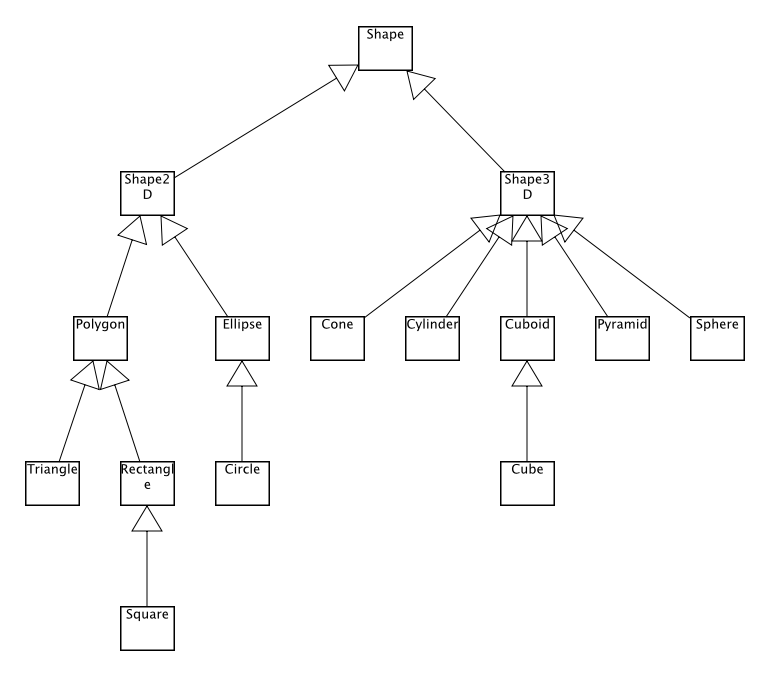
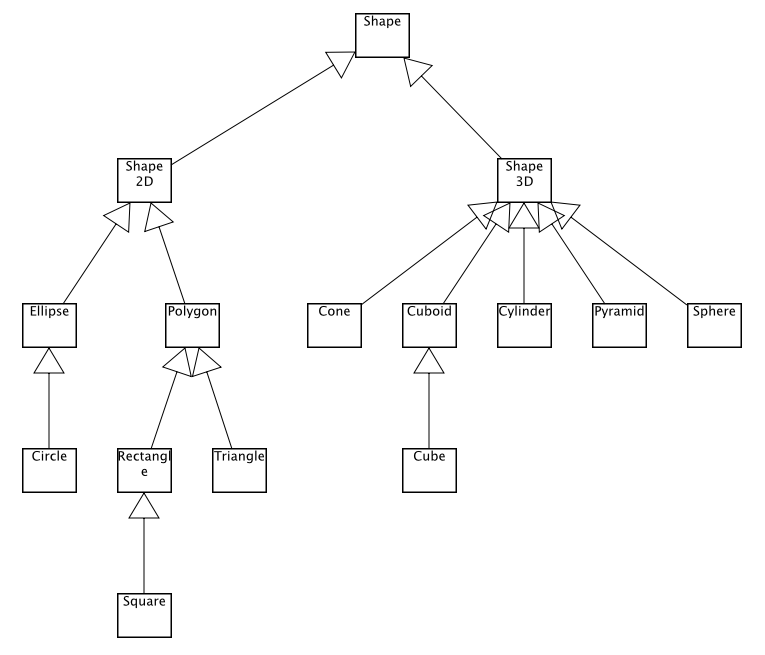
Little update in the 4th exercise for the user study

diff --git a/user-study-exercises/user-study-exercises.tex b/user-study-exercises/user-study-exercises.tex
@@ -81,4 +81,6 @@ Zu den zweidimensionalen Objekten gehören Ellipse (Klasse \texttt{\textbf{Ellip
 
 Zu den dreidimensionalen Objekten gehören Kugel (Klasse \texttt{\textbf{Sphere}}), Pyramide (Klasse \texttt{\textbf{Pyramid}}), Quader (Klasse \texttt{\textbf{Cuboid}}), Zylinder (Klasse \texttt{\textbf{Cylinder}}) und Kegel (Klasse \texttt{\textbf{Cone}}). Eine spezielle Form des Quaders, der Würfel, soll mit der Klasse \texttt{\textbf{Cube}} repräsentiert werden.
 
+Sortieren Sie anschließend die erstellten Klassen im Diagramm alphabetisch.
+
 \end{document}
